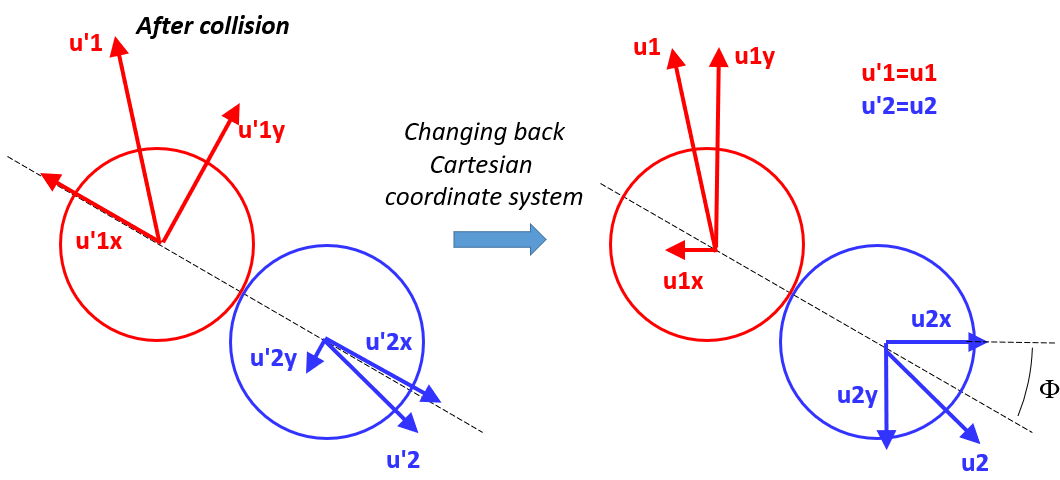
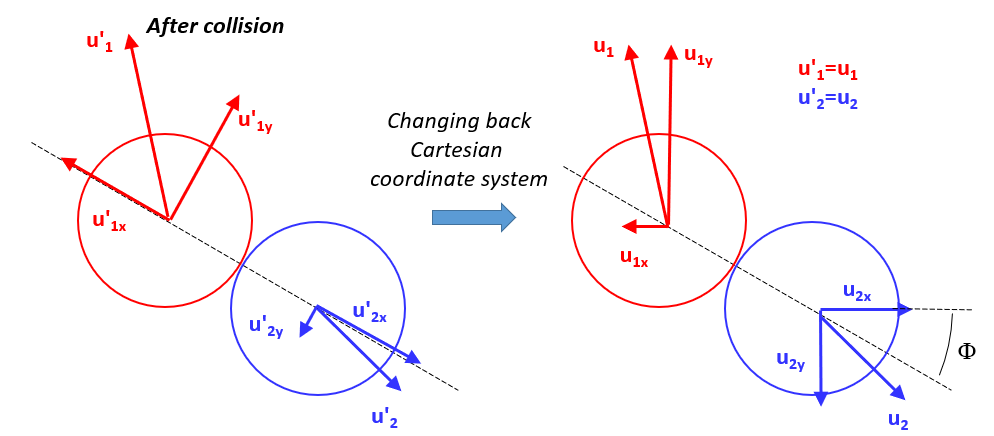
balls collisions in WPF

diff --git a/wpf-ball-to-ball-collision/README.md b/wpf-ball-to-ball-collision/README.md
@@ -18,7 +18,7 @@ editor=""/>
 
 # Elastic collisions of balls in WFP
 
-Elastic collisions of multiple balls are not a trivial effect. Apparently this subject seems only related to physics, but collision between objects is simulated in gaming. To run collision of balls we need to understand physics laws.
+Elastic collisions of multiple balls are not a trivial effect. Apparently, this subject seems only related to physics, but collision between objects is simulated in gaming. To run collision of balls we need to understand physics laws.
 Consider two spherical rigid objects, denoted by subscripts 1 and 2, one of mass **m<sub>1</sub>** and the other of mass **m<sub>2</sub>**. <br> 
 Let's set things up so these two balls are approaching each other along the line joining their centers, a recipe for a head on collision. Let these balls not be rotating or vibrating; the motion is purely translation. Under these conditions, we may choose a reference frame, which is one dimensional, with the objects on the x-axis.
 We consider an isolated system, in other words a system where external forces are absent (nothing affects spheres in the stage). A perfectly elastic collision is defined as one in which there is no loss of kinetic energy in the collision; the conservation laws say in an elastic collision total kinetic energy is the same before and after the collision and total momentum remains constant throughout the collision.
@@ -30,12 +30,11 @@ where **v** is the initial velocity of each object before the collision, **u** i
 
 m<sub>1</sub>v<sub>1</sub><sup>2</sup> / 2 + m<sub>2</sub>v<sub>2</sub><sup>2</sup> / 2 = m<sub>1</sub>u<sub>1</sub><sup>2</sup> / 2 + m<sub>2</sub>u<sub>2</sub><sup>2</sup> / 2   <br>
 
-These two equations can rewritten as:
+These two equations can rewrite as:
 - momentum equation:      m<sub>1</sub> (v<sub>1</sub> - u<sub>1</sub>) = m<sub>2</sub> (u<sub>2</sub> - v<sub>2</sub>)   
 - conservation of kinetic energy: m<sub>1</sub> (v<sub>1</sub><sup>2</sup> - u<sub>1</sub><sup>2</sup>) = m2 (u<sub>2</sub><sup>2</sup> - v<sub>2</sub><sup>2</sup>)
 
-As long as the difference between final and initial velocities is not zero for either object (meaning a collision actually happens), we may divide the second equation by the first one, which yields:
-
+if the difference between final and initial velocities is not zero for either object (meaning a collision actually happens), we may divide the second equation by the first one, which yields:
 
 v<sub>1</sub> + u<sub>1</sub> = u<sub>2</sub> + v<sub>2</sub>  <br>
 or <br>
@@ -51,9 +50,6 @@ Let start out with two spheres moving in the plane to have a collision:
 
 
 [![1]][1]
-
-
-:::image type="content" source="./media/picture01.png" alt-text="sphere in collision and coordinate system":::
 
 <p align="center">sketch 1: angles in collision</p>
 
@@ -249,7 +245,7 @@ On completion of **StartDraw()** all balls[k] (k=0,1,2,…. TotNumCircles) the c
 <p align="center">sketch 7: initial position of all ellipses in the canvas</p>
 
 The **System.Windows.Media.CompositionTarget** static class is the engine of balls animation and it represents the display surface on which our application is drawn.
-Every time the **CompositionTarget** class raises the **Rendering** event, notifies any event handlers that a frame has been rendered. To create the  animation we attach to the  Rendering event an event handler: <br>
+Every time the **CompositionTarget** class raises the **Rendering** event, notifies any event handlers that a frame has been rendered. To create the animation we attach to the  Rendering event an event handler: <br>
 ```csharp
 CompositionTarget.Rendering += new EventHandler(RenderFrame);
 ```
